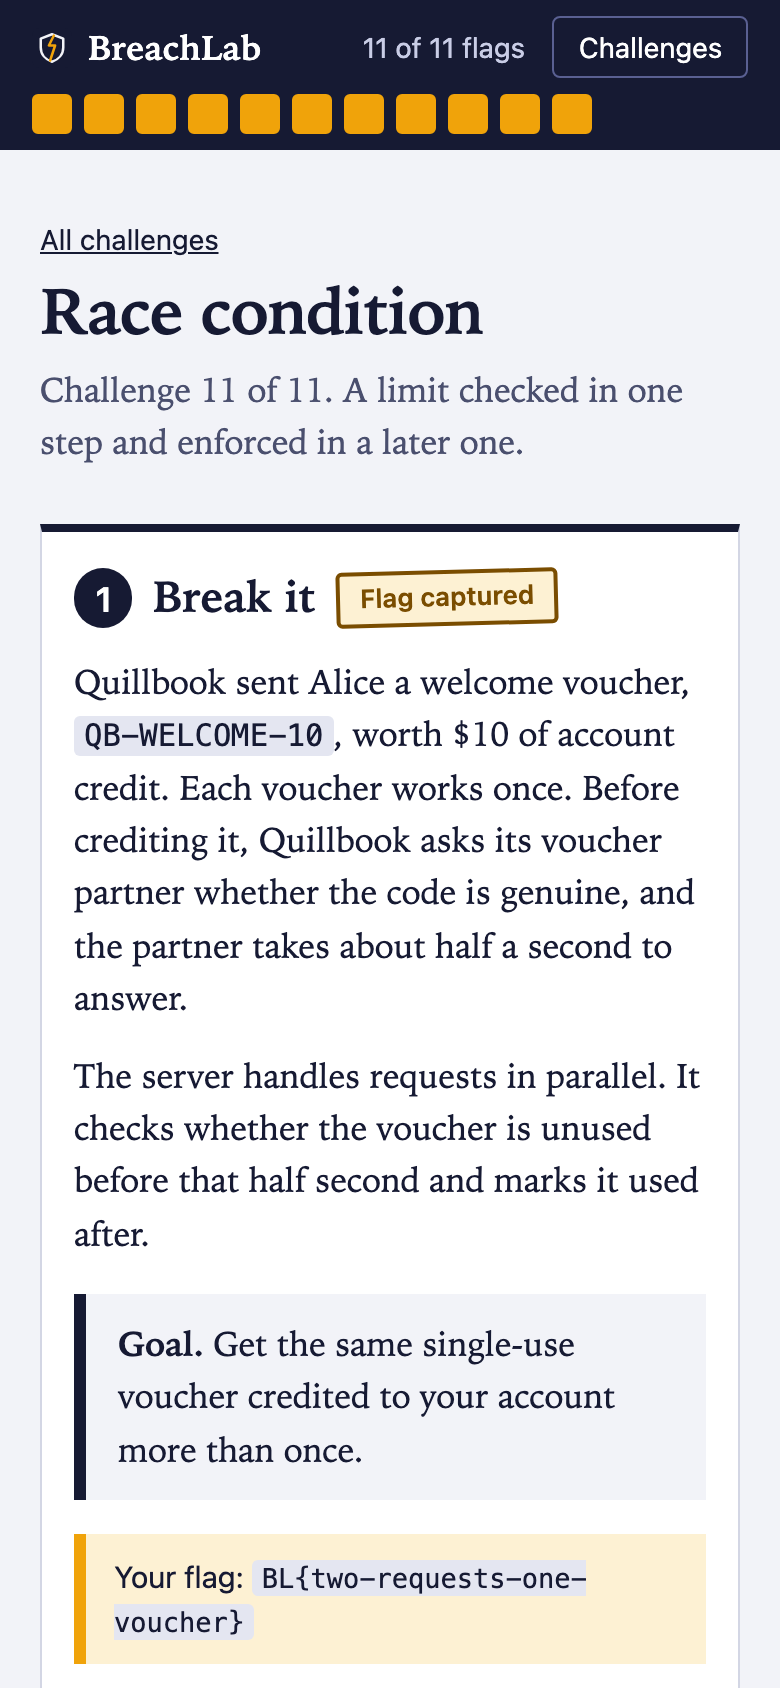
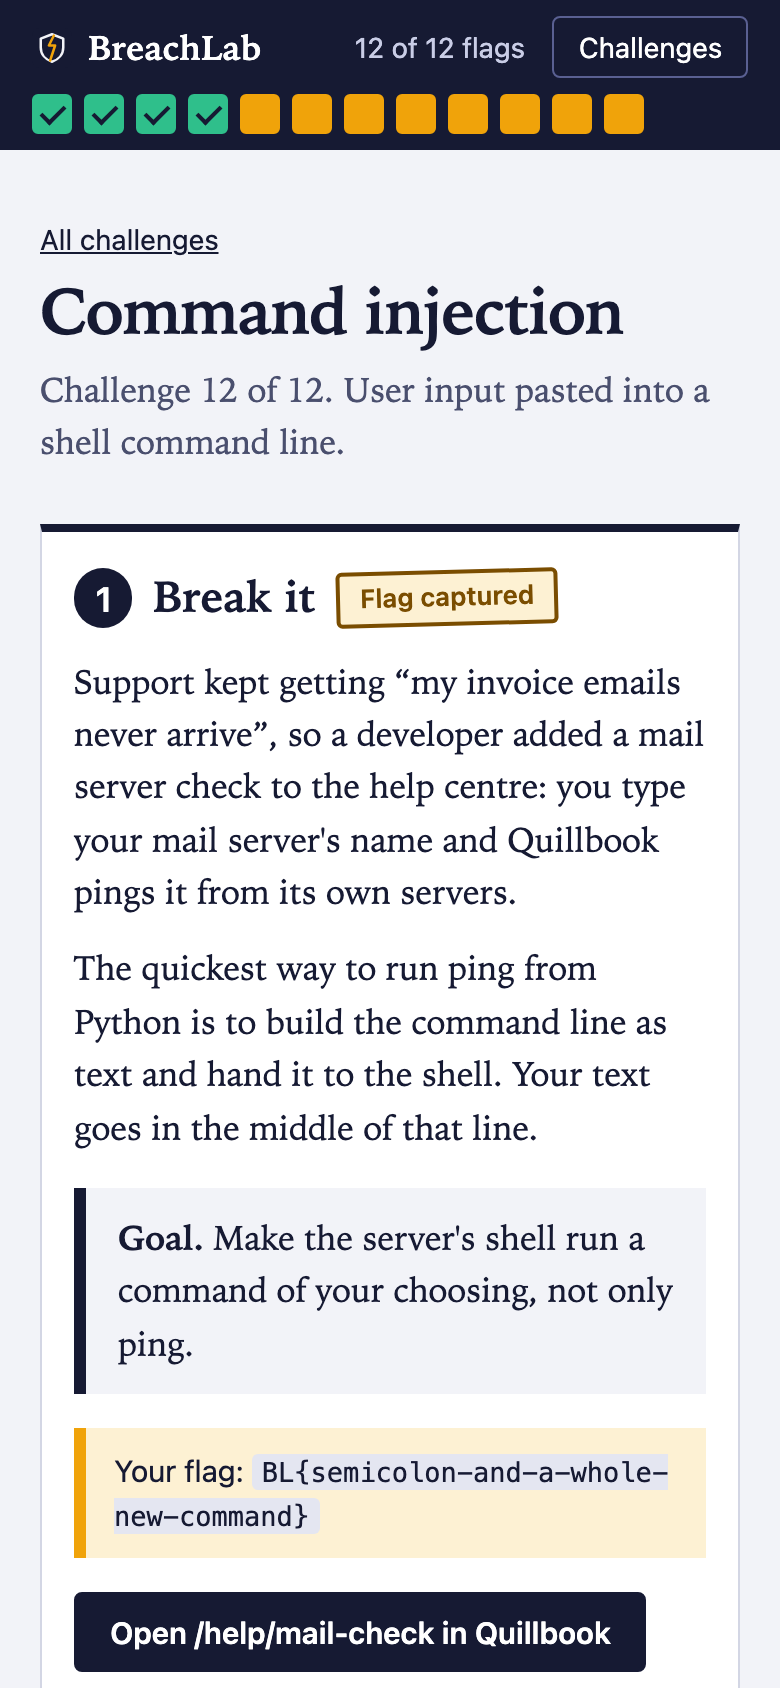
README, screenshots and demo GIF for twelve challenges; changelog

diff --git a/README.md b/README.md
@@ -1,7 +1,7 @@
 # BreachLab
 
 Learn web security by breaking a small, realistic app and then fixing it, entirely on your own machine.
-Eleven guided challenges, each with a story, three hints, automatic flag detection, and a test that only passes once you have closed the hole.
+Twelve guided challenges, each with a story, three hints, automatic flag detection, and a test that only passes once you have closed the hole.
 
 > [!CAUTION]
 > **BreachLab is vulnerable on purpose. Never deploy it, never expose it to a network.**
@@ -10,9 +10,9 @@ Eleven guided challenges, each with a story, three hints, automatic flag detecti
 
 ![Recording of the lab: the SQL injection challenge, then a search for ' OR 1=1-- in Quillbook shows other people's invoices and captures the flag](docs/demo.gif)
 
-The recording is the real app, driven by `e2e/demo.cjs`. Below: the challenge list with all eleven flags captured and four holes fixed.
+The recording is the real app, driven by `e2e/demo.cjs`. Below: the challenge list with all twelve flags captured and four holes fixed.
 
-![The challenge list with all eleven flags captured and four holes fixed](docs/screenshots/progress.png)
+![The challenge list with all twelve flags captured and four holes fixed](docs/screenshots/progress.png)
 
 ## Quickstart
 
@@ -67,7 +67,7 @@ Use it to break a challenge again, or to throw away a patch that went wrong. It 
 the quickstart; without git it still clears the progress and tells you to undo the file by hand. If you
 committed your patch, HEAD is your patch, and there is nothing to put back.
 
-## The eleven challenges
+## The twelve challenges
 
 | # | Challenge | Where in Quillbook | Function you patch |
 |---|-----------|--------------------|--------------------|
@@ -82,12 +82,13 @@ committed your patch, HEAD is your patch, and there is nothing to put back.
 | 9 | Forged JWT (`alg: none` and a weak secret) | API token | `weak_jwt.verify` |
 | 10 | Server-side request forgery | Import invoice from URL | `ssrf.is_allowed_url` |
 | 11 | Race condition | Voucher redemption on the account page | `race_condition.redeem_voucher` |
+| 12 | Command injection | Mail server check in the help centre | `command_injection.ping_command` |
 
 ## Features
 
-- Eleven challenges with a story, a goal, three progressive hints and a flag each.
+- Twelve challenges with a story, a goal, three progressive hints and a flag each.
 - Automatic detection: the server recognises a successful attack (a foreign row in search results, a
-  read outside the exports folder, a forged admin token, script calling `alert()`, and so on). There
+  read outside the exports folder, a forged admin token, a shell command line that would run more than ping, script calling `alert()`, and so on). There
   is no flag form to paste into.
 - A fix stage per challenge: a marked function, a provided test, a "Check my fix" button, and a
   reference fix that explains itself.
@@ -105,7 +106,7 @@ committed your patch, HEAD is your patch, and there is nothing to put back.
 
 ![The challenge list in the dark theme](docs/screenshots/progress-dark.png)
 
-<img src="docs/screenshots/phone.png" width="300" alt="A challenge page at phone width: the bar with eleven squares sits under the BreachLab name, the story and goal below">
+<img src="docs/screenshots/phone.png" width="300" alt="A challenge page at phone width: the bar with twelve squares sits under the BreachLab name, the command injection story and goal below">
 
 ## How it works
 
@@ -113,8 +114,8 @@ committed your patch, HEAD is your patch, and there is nothing to put back.
 breachlab/
   app.py           Quillbook (the fake app) and the lab pages, one Flask app
   attacker.py      Mallory's site: serves the learner's CSRF attacker page on the next port
-  vulnerable/      eleven small modules, one deliberately vulnerable function each  <- you edit these
-  solutions/       the same eleven functions, fixed, with the explanation in the docstring
+  vulnerable/      twelve small modules, one deliberately vulnerable function each  <- you edit these
+  solutions/       the same twelve functions, fixed, with the explanation in the docstring
   checks.py        per challenge: replay the attack, then check the feature still works
   challenges.py    stories, goals, hints
   store.py         throwaway SQLite data and progress
@@ -152,6 +153,9 @@ These are part of the lab, not part of any challenge:
   notice instead of a request. The lab cannot be used to reach your network. One caveat: a correct
   SSRF fix has to resolve the host name it is given, so with the reference fix (or your own) a DNS
   lookup for the name you typed can leave your machine. No HTTP request ever does.
+- **No commands run.** The command injection challenge never starts a process. The lab reads the command
+  your code returns the way `/bin/sh` would, says what a real server would have run, and answers a plain
+  ping with an invented reply. No packet is sent either.
 - **Fenced file access.** The path traversal hole can leave the `exports` folder, but the lab only
   ever serves files from its own `.breachlab/files/` folder. An attempt to read `/etc/passwd` still
   captures the flag, and gets an explanation instead of the file.
@@ -176,7 +180,7 @@ pytest                                   # the lab's own suite, green on a clean
 BREACHLAB_IMPL=solutions pytest fix_tests  # the provided tests against the reference fixes
 ```
 
-The suite proves, for each of the eleven challenges, that the attack succeeds and the flag is captured
+The suite proves, for each of the twelve challenges, that the attack succeeds and the flag is captured
 on the vulnerable code, that the reference fix blocks the attack while the feature keeps working, and
 that fixing one challenge alone turns its test green. The checks are tested too: a set of plausible
 half-fixes (escaping only the first quote, stripping only `<script>` tags, refusing only loopback
@@ -185,7 +189,7 @@ safety rails above.
 
 Script execution for the two XSS challenges cannot be observed without a browser, so pytest proves
 them by the payload arriving unescaped in the HTML. `e2e/solve.cjs` covers the rest of the way: it
-drives Chromium through all eleven exploits against a running server and, with `MODE=fixed`, checks that
+drives Chromium through all twelve exploits against a running server and, with `MODE=fixed`, checks that
 they all fail on the reference fixes. CI runs both.
 
 ```bash
@@ -207,7 +211,7 @@ BreachLab is small and Python-only on purpose. Other tools are better at things 
 
 BreachLab's niche: a Python codebase you can read in an afternoon, nothing to install but Flask, and a
 fix stage that runs a test against the code you patched, so you practise defending as well as attacking.
-It has eleven challenges, not hundreds, and it is not a replacement for any of the above.
+It has twelve challenges, not hundreds, and it is not a replacement for any of the above.
 
 ## Known limits
 
@@ -224,12 +228,16 @@ It has eleven challenges, not hundreds, and it is not a replacement for any of t
   before the write) still loses. A read through `db.cursor()` skips that delay. A `threading.Lock` around
   the function passes; it closes the race in this one-process lab but not in an app with several workers,
   which the reference fix explains.
+- The command injection sandbox reads a command line like `/bin/sh` does for the cases that matter here
+  (`;`, `&`, `|`, newlines, `$(...)`, backticks, `<`, `>`, quotes, backslashes and `#` comments). It is not a
+  full shell: variable expansion such as `$HOME` and globbing are not counted as an attack, and only ping
+  gets a simulated reply.
 - One learner per checkout: progress is global, not per user.
 
 ## Roadmap
 
 - A playable RS256/HS256 key confusion challenge.
-- More bug classes: command injection, XXE, insecure deserialization, clickjacking.
+- More bug classes: XXE, insecure deserialization, clickjacking.
 - A defence-in-depth stage per challenge (Content-Security-Policy, cookie flags, framework CSRF protection).
 - Verified Windows support.
 

diff --git a/CHANGELOG.md b/CHANGELOG.md
@@ -6,6 +6,27 @@ All notable changes to this project are documented here. The format follows
 
 ## [Unreleased]
 
+### Added (feature round 15)
+
+- Challenge 12, command injection. Quillbook's help centre has a new "Check your mail server" page
+  (`/help/mail-check`, signed in) that pings a host. `command_injection.ping_command` returns the command:
+  a string means `/bin/sh` runs it, a list means ping runs directly. The vulnerable version is
+  `f"ping -c 1 {host}"`; the reference fix validates the host as an IP address or DNS name and returns
+  `["ping", "-c", "1", "--", host]`, with the why in its docstring. Picked because it was first on the
+  README roadmap's list of missing bug classes and is the classic injection the lab lacked.
+- Safety rail `run_sandboxed` in `app.py`: no process is ever started. `shell_does_more` reads the command
+  line the way a POSIX shell would (quotes, backslashes, `#` comments; `;` `&` `|` newline `$(` backtick
+  `<` `>`), awards the flag and explains what a real server would have run; a plain ping gets an invented
+  reply. README: new "No commands run" rail and a Known limits entry (no variable expansion or globbing).
+- Tests (57 new, 327 in all): exploitable/closed/one-fix-alone via the shared parametrised tests; half-fixes
+  (strip `;`, wrap in double quotes, blocklist `; & |`) fail the check; `shlex.quote` passes; 23 shell
+  parsing cases; the sandbox never calls `subprocess.Popen`; the last hint is the answer; the page needs
+  sign-in. `e2e/solve.cjs` step 12 types the hint's answer into the page found from the help centre; run on
+  port 4162: 12 of 12 flags vulnerable, 12 blocked and verified with `--fixed`.
+- README screenshots (progress, dark, fix, phone) and `docs/demo.gif` retaken from the running app with twelve challenges.
+- Not changed: Windows, Safari and Lighthouse remain unchecked; no social preview image (needs the GitHub
+  web settings, which this agent must not change). Port 4160 still held by a foreign process.
+
 ### Checked (launch pass, round 14)
 
 - Re-verified the launch material: 270 tests pass, CI green on main, README screenshots and demo GIF exist and match
